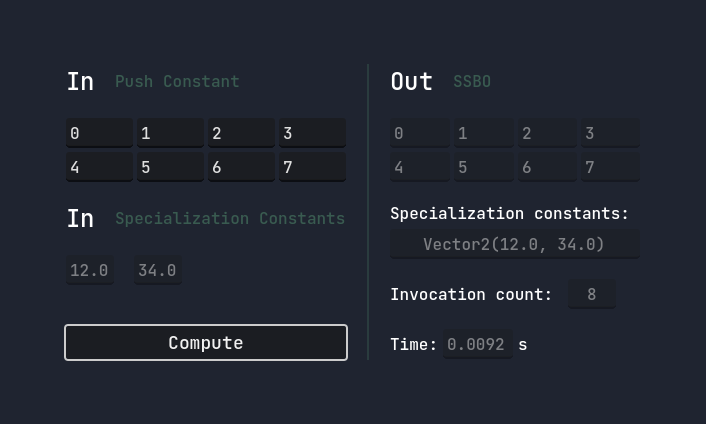
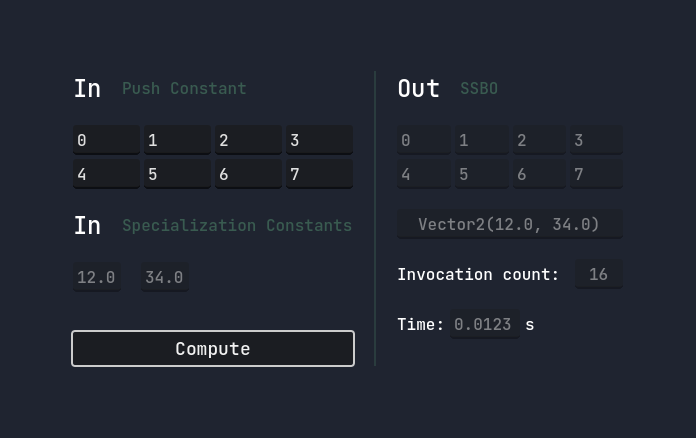
Add bit about specialization constants to `readme`; update UI; update screenshot

diff --git a/README.md b/README.md
@@ -2,6 +2,8 @@
 
 Showcase of getting data into and out of GLSL compute shaders using Push Constants and Storage Buffers&hellip; in Godot.
 
+Example of **Specialization Constants** -- which are a more efficient to pass data in than Push Constants for data that not need change during runtime -- is also included.
+
 Helpful UI included to help understand the concepts.
 
 For more info, see https://1hue.github.io/storage-buffers-compute-shaders-godot
